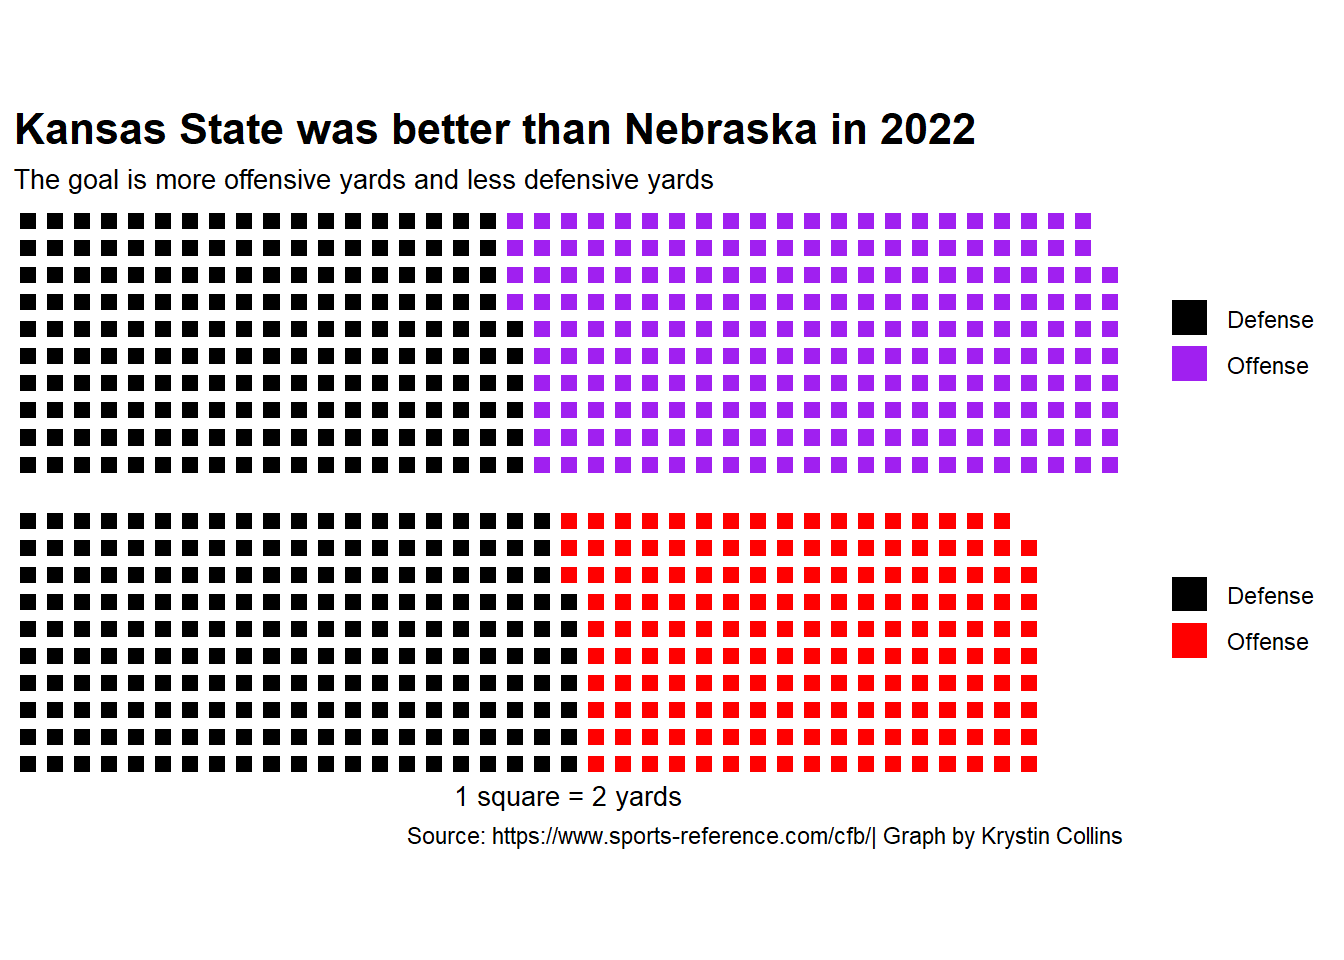
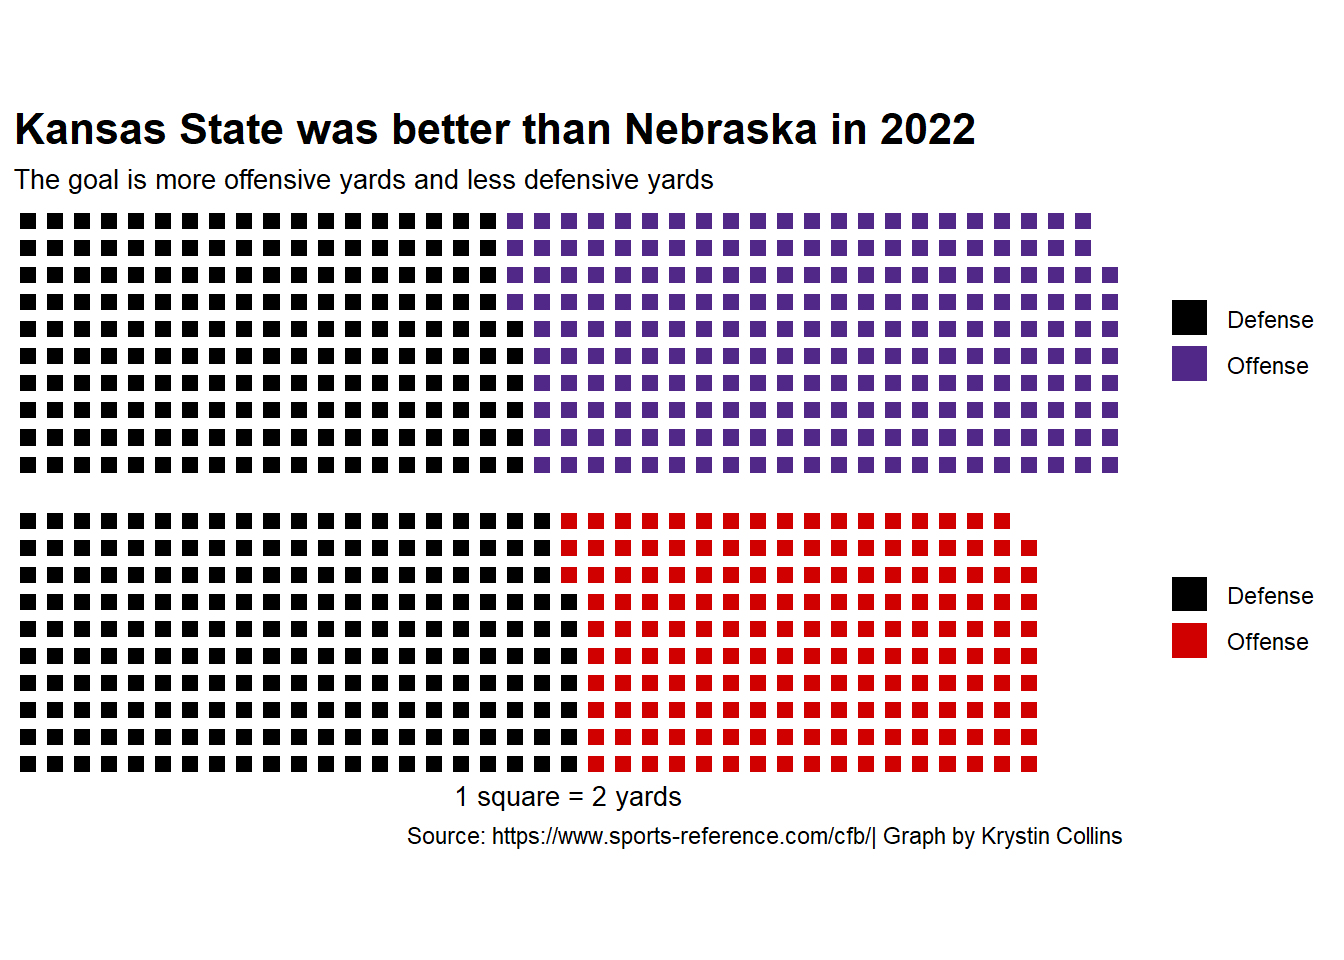
black

diff --git a/posts/adrians-move-from-nebraska/index.html b/posts/adrians-move-from-nebraska/index.html
@@ -371,7 +371,7 @@ pre > code.sourceCode > span > a:first-child::before { text-decoration: underlin
 <span id="cb4-17"><a href="#cb4-17" aria-hidden="true" tabindex="-1"></a>  ksttotal, </span>
 <span id="cb4-18"><a href="#cb4-18" aria-hidden="true" tabindex="-1"></a>  <span class="at">rows =</span> <span class="dv">10</span>, </span>
 <span id="cb4-19"><a href="#cb4-19" aria-hidden="true" tabindex="-1"></a>  <span class="at">title =</span> <span class="st">""</span>, </span>
-<span id="cb4-20"><a href="#cb4-20" aria-hidden="true" tabindex="-1"></a>  <span class="at">colors =</span> <span class="fu">c</span>(<span class="st">"black"</span>, <span class="st">"purple"</span>)</span>
+<span id="cb4-20"><a href="#cb4-20" aria-hidden="true" tabindex="-1"></a>  <span class="at">colors =</span> <span class="fu">c</span>(<span class="st">"black"</span>, <span class="st">"#512888"</span>)</span>
 <span id="cb4-21"><a href="#cb4-21" aria-hidden="true" tabindex="-1"></a>) <span class="sc">+</span></span>
 <span id="cb4-22"><a href="#cb4-22" aria-hidden="true" tabindex="-1"></a>  <span class="fu">labs</span>(</span>
 <span id="cb4-23"><a href="#cb4-23" aria-hidden="true" tabindex="-1"></a>    <span class="at">title =</span> <span class="st">"Kansas State was better than Nebraska in 2022"</span>,</span>
@@ -386,7 +386,7 @@ pre > code.sourceCode > span > a:first-child::before { text-decoration: underlin
 <span id="cb4-32"><a href="#cb4-32" aria-hidden="true" tabindex="-1"></a>  nutotal, </span>
 <span id="cb4-33"><a href="#cb4-33" aria-hidden="true" tabindex="-1"></a>  <span class="at">rows =</span> <span class="dv">10</span>, </span>
 <span id="cb4-34"><a href="#cb4-34" aria-hidden="true" tabindex="-1"></a>  <span class="at">xlab =</span> <span class="st">"1 square = 2 yards"</span>, </span>
-<span id="cb4-35"><a href="#cb4-35" aria-hidden="true" tabindex="-1"></a>  <span class="at">colors =</span> <span class="fu">c</span>(<span class="st">"black"</span>, <span class="st">"red"</span>, <span class="st">"white"</span>)</span>
+<span id="cb4-35"><a href="#cb4-35" aria-hidden="true" tabindex="-1"></a>  <span class="at">colors =</span> <span class="fu">c</span>(<span class="st">"black"</span>, <span class="st">"#d00000"</span>, <span class="st">"white"</span>)</span>
 <span id="cb4-36"><a href="#cb4-36" aria-hidden="true" tabindex="-1"></a>) <span class="sc">+</span></span>
 <span id="cb4-37"><a href="#cb4-37" aria-hidden="true" tabindex="-1"></a>  <span class="fu">labs</span>(</span>
 <span id="cb4-38"><a href="#cb4-38" aria-hidden="true" tabindex="-1"></a>    <span class="at">caption =</span> <span class="st">"Source: https://www.sports-reference.com/cfb/| Graph by Krystin Collins"</span></span>

diff --git a/index.html b/index.html
@@ -210,7 +210,7 @@ window.Quarto = {
 
 <div class="quarto-listing quarto-listing-container-default" id="listing-listing">
 <div class="list quarto-listing-default">
-<div class="quarto-post image-right" data-index="0" data-categories="Zm9vdGJhbGw=" data-listing-date-sort="1731823200000" data-listing-file-modified-sort="1731788325879" data-listing-date-modified-sort="NaN" data-listing-reading-time-sort="7" data-listing-word-count-sort="1347">
+<div class="quarto-post image-right" data-index="0" data-categories="Zm9vdGJhbGw=" data-listing-date-sort="1731823200000" data-listing-file-modified-sort="1731788665382" data-listing-date-modified-sort="NaN" data-listing-reading-time-sort="7" data-listing-word-count-sort="1347">
 <div class="thumbnail">
 <p><a href="./posts/adrians-move-from-nebraska/index.html" class="no-external"></a></p><a href="./posts/adrians-move-from-nebraska/index.html" class="no-external">
 <p class="card-img-top"><img src="posts\adrians-move-from-nebraska\index_files\figure-html\unnamed-chunk-1-1.png"  class="thumbnail-image card-img"/></p>
